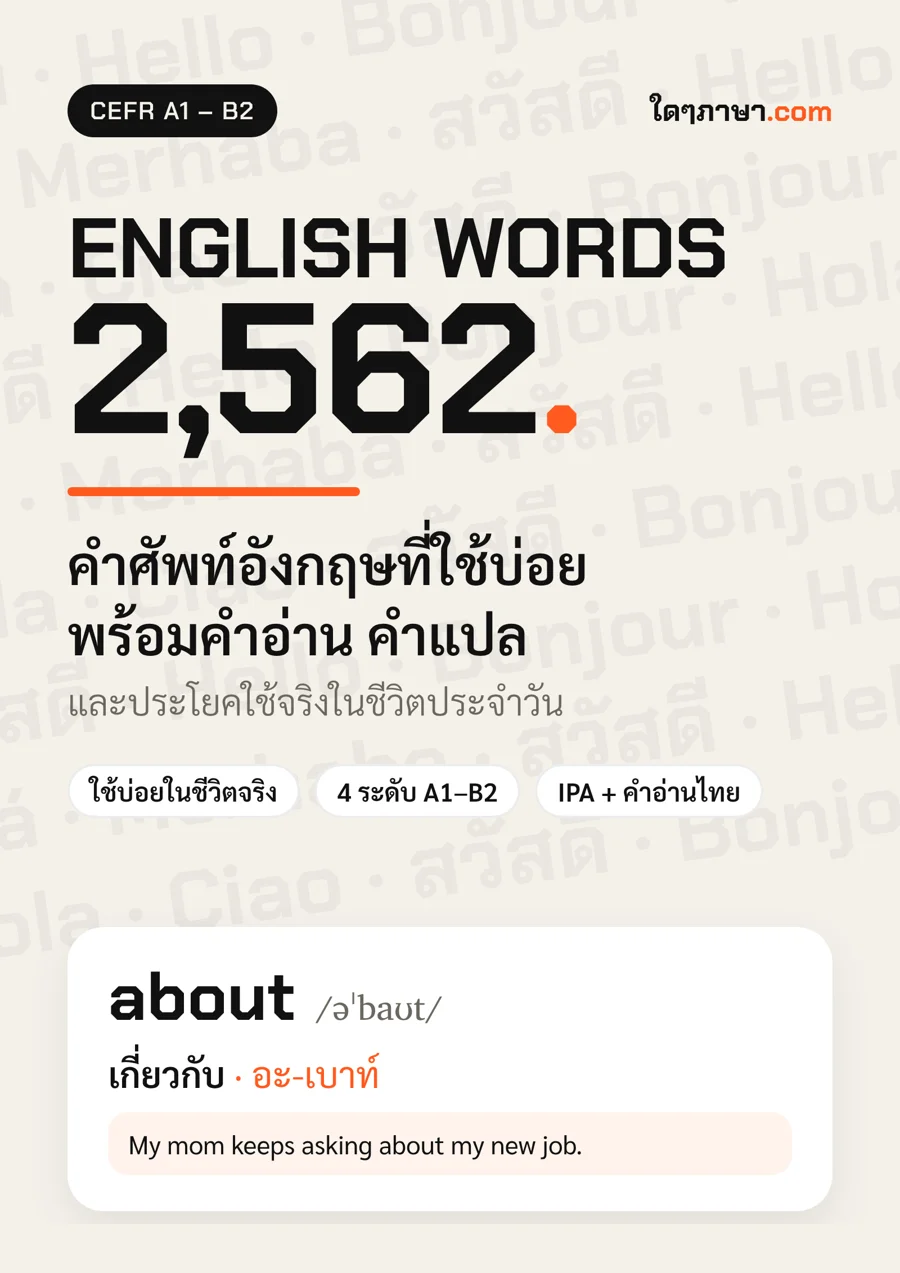
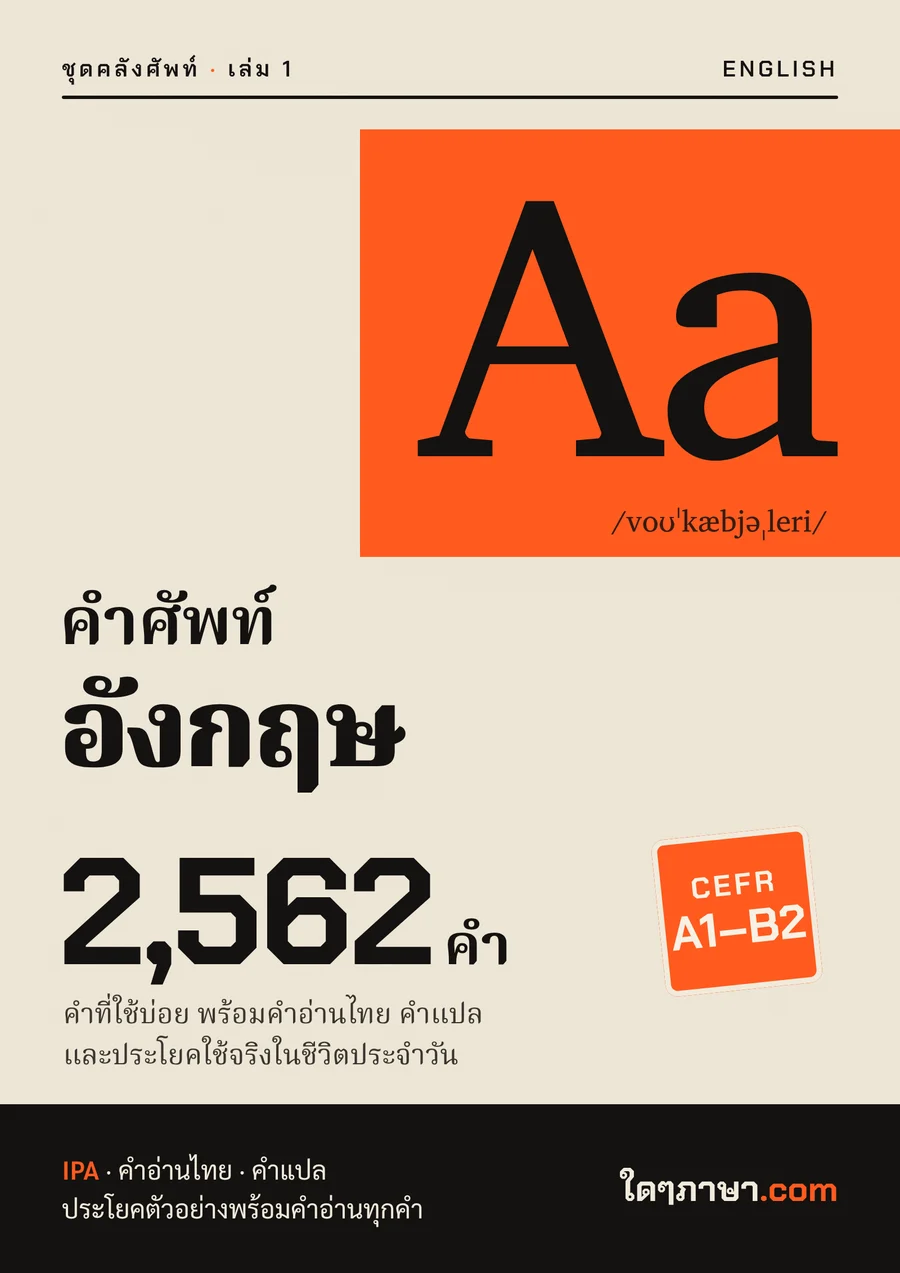
New book-series covers for both ebooks (cover, og, book-spine look on the store and home card)
Claude-Session: https://claude.ai/code/session_01PKK3YNeSXHAnrqD1Qe5szB

diff --git a/where-to-learn-japanese.html b/where-to-learn-japanese.html
@@ -67,7 +67,7 @@
 
 </div>
 <div class="tool"><a href="/translate"><span><small>ลองใช้เครื่องมือในเรื่องนี้</small><strong>แปลภาษา</strong></span><span class="go">→</span></a></div>
-<a href="/ebook-japanese" onclick="window.dHit&&dHit('ev:ebook-japanese-article')" style="display:flex;gap:16px;align-items:center;background:#FFF3EC;border-radius:18px;padding:14px 18px;margin:28px 0;text-decoration:none;color:inherit"><img src="/ebook-jp-assets/cover.webp" width="72" height="102" alt="" loading="lazy" style="width:72px;height:auto;border-radius:8px;box-shadow:0 6px 16px rgba(17,17,17,.12);flex:none"><span><b>ทวนศัพท์ควบคู่กับคอร์สเรียน</b><br>ebook 3,000 คำศัพท์ญี่ปุ่น JLPT N5–N1 พร้อมคานะ คำอ่านไทย และประโยคตัวอย่างแปลไทย · ฿149 <span style="color:#FF5A1F;font-weight:600">ดูตัวอย่าง →</span></span></a>
+<a href="/ebook-japanese" onclick="window.dHit&&dHit('ev:ebook-japanese-article')" style="display:flex;gap:16px;align-items:center;background:#FFF3EC;border-radius:18px;padding:14px 18px;margin:28px 0;text-decoration:none;color:inherit"><img src="/ebook-jp-assets/cover.webp?v=2" width="72" height="102" alt="" loading="lazy" style="width:72px;height:auto;border-radius:8px;box-shadow:0 6px 16px rgba(17,17,17,.12);flex:none"><span><b>ทวนศัพท์ควบคู่กับคอร์สเรียน</b><br>ebook 3,000 คำศัพท์ญี่ปุ่น JLPT N5–N1 พร้อมคานะ คำอ่านไทย และประโยคตัวอย่างแปลไทย · ฿149 <span style="color:#FF5A1F;font-weight:600">ดูตัวอย่าง →</span></span></a>
 <div class="refs"><h2>อ้างอิง</h2><ol><li><a href="https://tpaeduways.com/courses/" rel="noopener">TPA Eduways: รายการคอร์ส</a></li><li><a href="https://www.tpa.or.th/slc/course.php?lang=jp" rel="noopener">ส.ส.ท.: คอร์สภาษาญี่ปุ่น</a></li><li><a href="https://www.tpa.or.th/slc/contact.php" rel="noopener">ส.ส.ท.: ติดต่อโรงเรียนภาษาและวัฒนธรรม</a></li><li><a href="https://ba.jpf.go.jp/wp-content/uploads/2020/08/2020-2_JFBKK_JapaneseOnlineCourse_TH.pdf" rel="noopener">The Japan Foundation, Bangkok: ระเบียบการรับสมัคร (2563)</a></li><li><a href="https://minato-jf.jp/" rel="noopener">JF Japanese e-Learning Minato</a></li><li><a href="https://www.inlinguabangkok.com/en/courses/foreign-languages/" rel="noopener">inlingua Bangkok: Foreign languages</a></li><li><a href="https://arts.tu.ac.th/training" rel="noopener">คณะศิลปศาสตร์ มหาวิทยาลัยธรรมศาสตร์: ศูนย์อบรมภาษาต่างประเทศ</a></li><li><a href="https://www.school.ojsat.or.th/intensive-starter-japanese/" rel="noopener">OJSAT: คอร์สเริ่มต้นเร่งรัด 150 ชั่วโมง</a></li></ol></div>
 </article>
 <section class="more"><h2>อ่านเรื่องอื่น</h2><ul class="cards"><li><a href="/where-to-learn-korean"><div class="pic"><svg class="art" viewBox="0 0 1600 1000" preserveAspectRatio="xMidYMid slice" role="img" aria-label="ตัวอักษรเกาหลี 한글" xmlns="http://www.w3.org/2000/svg"><defs><filter id="gr0" x="0" y="0" width="100%" height="100%"><feTurbulence type="fractalNoise" baseFrequency=".9" numOctaves="2" stitchTiles="stitch"/><feColorMatrix values="0 0 0 0 0  0 0 0 0 0  0 0 0 0 0  0 0 0 0.22 0"/></filter></defs><rect width="1600" height="1000" fill="#E2E6F0"/><g stroke="#000" stroke-opacity="0.08" stroke-width="10" fill="none"><path d="M-20 720 C300 640 520 760 820 660 S1300 520 1640 600"/><path d="M260 -20 C300 300 200 560 330 1020"/><path d="M1080 -20 C1020 260 1180 520 1100 1020"/><path d="M-20 300 L1640 380"/></g><text x="800" y="600" text-anchor="middle" font-family="'Noto Serif SC','Noto Serif JP','Noto Serif KR','Songti SC','Hiragino Mincho ProN','Apple SD Gothic Neo',serif" font-size="380" font-weight="700" fill="#1A1A18">한글</text><g fill="#FF5A1F"><circle cx="300" cy="780" r="34"/><rect x="380" y="760" width="200" height="40" rx="20"/><rect x="620" y="700" width="40" height="160" rx="20"/></g><text x="1300" y="800" text-anchor="end" font-family="'IBM Plex Sans Thai Looped',sans-serif" font-size="54" fill="#1A1A18" opacity=".55">안녕하세요</text><g transform="translate(1400,420) scale(0.8)"><path d="M0 0 C-46 -62 -64 -92 -64 -124 A64 64 0 1 1 64 -124 C64 -92 46 -62 0 0 Z" fill="#FF5A1F"/><circle cx="0" cy="-124" r="24" fill="#FFFDF8"/></g><rect width="1600" height="1000" filter="url(#gr0)" opacity=".9"/></svg></div><span class="cat">ที่เรียนภาษา</span><h3>เรียนเกาหลีเทอมละพันบาท และอีกสี่ทางเลือก</h3><p>เจ็ดที่เรียน ตั้งแต่เซจงเทอมละพันบาทถึงโรงเรียนภาษาในห้าง</p></a></li><li><a href="/where-to-learn-french"><div class="pic"><svg class="art" viewBox="0 0 1600 1000" preserveAspectRatio="xMidYMid slice" role="img" aria-label="คำว่า Bonjour กับตราประทับ DELF A1" xmlns="http://www.w3.org/2000/svg"><defs><filter id="gr1" x="0" y="0" width="100%" height="100%"><feTurbulence type="fractalNoise" baseFrequency=".9" numOctaves="2" stitchTiles="stitch"/><feColorMatrix values="0 0 0 0 0  0 0 0 0 0  0 0 0 0 0  0 0 0 0.22 0"/></filter></defs><rect width="1600" height="1000" fill="#E9E3EF"/><g stroke="#000" stroke-opacity="0.08" stroke-width="10" fill="none"><path d="M-20 720 C300 640 520 760 820 660 S1300 520 1640 600"/><path d="M260 -20 C300 300 200 560 330 1020"/><path d="M1080 -20 C1020 260 1180 520 1100 1020"/><path d="M-20 300 L1640 380"/></g><g transform="translate(1180,300) rotate(-12)"><circle r="170" fill="none" stroke="#FF5A1F" stroke-width="10"/><circle r="140" fill="none" stroke="#FF5A1F" stroke-width="3"/><text y="-20" text-anchor="middle" font-family="'IBM Plex Sans Thai Looped',sans-serif" font-size="44" fill="#FF5A1F" font-weight="600">DELF</text><text y="44" text-anchor="middle" font-family="'IBM Plex Sans Thai Looped',sans-serif" font-size="56" fill="#FF5A1F" font-weight="700">A1</text></g><text x="160" y="640" font-family="Georgia,'Noto Serif Thai',serif" font-style="italic" font-size="250" fill="#1A1A18">Bonjour</text><path d="M170 690 C500 650 800 720 1050 680" stroke="#FF5A1F" stroke-width="10" fill="none" stroke-linecap="round"/><g transform="translate(330,920) scale(0.6)"><path d="M0 0 C-46 -62 -64 -92 -64 -124 A64 64 0 1 1 64 -124 C64 -92 46 -62 0 0 Z" fill="#FF5A1F"/><circle cx="0" cy="-124" r="24" fill="#FFFDF8"/></g><rect width="1600" height="1000" filter="url(#gr1)" opacity=".9"/></svg></div><span class="cat">ที่เรียนภาษา</span><h3>Bonjour ที่ถนนวิทยุ และอีกหกที่</h3><p>เจ็ดที่เรียน อลิยองซ์สามเมือง โรงเรียนภาษา และมหาวิทยาลัย</p></a></li><li><a href="/where-to-learn-german"><div class="pic"><svg class="art" viewBox="0 0 1600 1000" preserveAspectRatio="xMidYMid slice" role="img" aria-label="คำว่า Guten Tag กับระดับภาษา" xmlns="http://www.w3.org/2000/svg"><defs><filter id="gr2" x="0" y="0" width="100%" height="100%"><feTurbulence type="fractalNoise" baseFrequency=".9" numOctaves="2" stitchTiles="stitch"/><feColorMatrix values="0 0 0 0 0  0 0 0 0 0  0 0 0 0 0  0 0 0 0.22 0"/></filter></defs><rect width="1600" height="1000" fill="#E6E8DE"/><g stroke="#000" stroke-opacity="0.08" stroke-width="10" fill="none"><path d="M-20 720 C300 640 520 760 820 660 S1300 520 1640 600"/><path d="M260 -20 C300 300 200 560 330 1020"/><path d="M1080 -20 C1020 260 1180 520 1100 1020"/><path d="M-20 300 L1640 380"/></g><text x="800" y="560" text-anchor="middle" font-family="Georgia,'Noto Serif Thai',serif" font-size="260" font-weight="700" fill="#1A1A18">Guten Tag</text><g transform="translate(800,720)"><rect x="-430" y="-40" width="860" height="80" rx="40" fill="#FFFDF8"/><text y="18" text-anchor="middle" font-family="'IBM Plex Sans Thai Looped',sans-serif" font-size="46" fill="#1A1A18">A1 → A2 → B1 → B2</text></g><g fill="#FF5A1F"><circle cx="1420" cy="200" r="34"/><circle cx="1520" cy="200" r="34"/></g><g transform="translate(240,920) scale(0.7)"><path d="M0 0 C-46 -62 -64 -92 -64 -124 A64 64 0 1 1 64 -124 C64 -92 46 -62 0 0 Z" fill="#FF5A1F"/><circle cx="0" cy="-124" r="24" fill="#FFFDF8"/></g><rect width="1600" height="1000" filter="url(#gr2)" opacity=".9"/></svg></div><span class="cat">ที่เรียนภาษา</span><h3>เจ็ดที่เรียนภาษาเยอรมัน เริ่มที่ซอยเกอเธ่</h3><p>เจ็ดที่เรียน ตั้งแต่คอร์สวิดีโอหลักพันถึงเกอเธ่ พร้อมตารางเทียบราคา</p></a></li></ul></section>

diff --git a/ebook.html b/ebook.html
@@ -12,7 +12,7 @@
 <meta property="og:description" content="คำศัพท์อังกฤษใช้บ่อย 2,562 คำ พร้อม IPA คำอ่านไทย คำแปล และประโยคใช้จริง · PDF + EPUB · ฿149">
 <meta property="og:type" content="product">
 <meta property="og:url" content="https://daidaiphasa.com/ebook">
-<meta property="og:image" content="https://daidaiphasa.com/ebook-assets/og.jpg">
+<meta property="og:image" content="https://daidaiphasa.com/ebook-assets/og.jpg?v=2">
 <meta property="og:locale" content="th_TH">
 <meta name="twitter:card" content="summary_large_image">
 <meta name="theme-color" content="#FBFAF7">
@@ -24,7 +24,7 @@
 <link rel="stylesheet" href="https://fonts.googleapis.com/css2?family=Chakra+Petch:wght@400;500;600;700&family=Sarabun:ital,wght@0,300;0,400;0,500;0,600;0,700;1,300;1,400&display=swap">
 <link rel="stylesheet" href="/article.css?v=7">
 <script>try{var t=localStorage.getItem('lh-theme');if(t==='dark')document.documentElement.setAttribute('data-theme','dark')}catch(e){}</script>
-<script type="application/ld+json">{"@context":"https://schema.org","@type":"Product","name":"2,562 คำศัพท์อังกฤษที่ใช้บ่อย พร้อมคำอ่าน คำแปล และประโยคใช้จริง","image":"https://daidaiphasa.com/ebook-assets/cover.webp","description":"ebook คำศัพท์ภาษาอังกฤษที่ใช้บ่อย 2,562 คำ ระดับ A1–B2 พร้อม IPA คำอ่านไทย คำแปล และประโยคตัวอย่าง ไฟล์ PDF และ EPUB","brand":{"@type":"Brand","name":"ใดๆภาษา.com"},"offers":{"@type":"Offer","price":"149","priceCurrency":"THB","availability":"https://schema.org/InStock","url":"https://daidaiphasa.com/ebook"}}</script>
+<script type="application/ld+json">{"@context":"https://schema.org","@type":"Product","name":"2,562 คำศัพท์อังกฤษที่ใช้บ่อย พร้อมคำอ่าน คำแปล และประโยคใช้จริง","image":"https://daidaiphasa.com/ebook-assets/cover.webp?v=2","description":"ebook คำศัพท์ภาษาอังกฤษที่ใช้บ่อย 2,562 คำ ระดับ A1–B2 พร้อม IPA คำอ่านไทย คำแปล และประโยคตัวอย่าง ไฟล์ PDF และ EPUB","brand":{"@type":"Brand","name":"ใดๆภาษา.com"},"offers":{"@type":"Offer","price":"149","priceCurrency":"THB","availability":"https://schema.org/InStock","url":"https://daidaiphasa.com/ebook"}}</script>
 <style>
 :root{--signal:#FF5A1F;--wash:#F4F1EA;--tint:#FFF3EC;--r-lg:28px;--r-md:18px;--display:"Chakra Petch","Sarabun",sans-serif;--body:"Sarabun",sans-serif}
 :root[data-theme="dark"]{--wash:#1D1C1A;--tint:#2a1c15}
@@ -34,8 +34,10 @@ body{font-family:var(--body);font-weight:300;font-size:17px;line-height:1.7}
 .stroke{height:5px;width:90px;border-radius:99px;background:var(--signal);border:0;margin:18px 0}
 /* hero */
 .hero{display:grid;grid-template-columns:minmax(0,420px) 1fr;gap:clamp(28px,5vw,72px);align-items:center;padding:clamp(28px,5vw,64px) 0}
-.bookcover{border-radius:var(--r-lg);overflow:hidden;box-shadow:0 30px 70px rgba(17,17,17,.14),0 0 0 1px rgba(17,17,17,.06);transform:rotate(-1.5deg);background:var(--wash)}
+.bookcover{position:relative;border-radius:5px 16px 16px 5px;overflow:hidden;box-shadow:0 30px 70px rgba(17,17,17,.14),0 0 0 1px rgba(17,17,17,.06);transform:rotate(-1.5deg);background:var(--wash)}
 .bookcover img{display:block;width:100%;height:auto}
+.bookcover::after{content:"";position:absolute;inset:0;background:linear-gradient(90deg,rgba(0,0,0,.22) 0,rgba(255,255,255,.22) 1.4%,rgba(0,0,0,.10) 3%,rgba(0,0,0,0) 6%);pointer-events:none}
+.other img{border-radius:3px 8px 8px 3px!important}
 .kick{display:inline-block;font-family:var(--display);font-weight:600;font-size:14px;letter-spacing:.06em;background:var(--tint);color:var(--ink);border-radius:999px;padding:5px 14px}
 .hero h1{font-size:clamp(34px,5vw,60px);margin-top:16px}
 .hero h1 span{color:var(--signal)}
@@ -128,7 +130,7 @@ body{font-family:var(--body);font-weight:300;font-size:17px;line-height:1.7}
 
 <main class="eb">
   <section class="hero">
-    <div class="bookcover"><img src="/ebook-assets/cover.webp" width="900" height="1273" alt="ปกหนังสือ 2,562 คำศัพท์อังกฤษที่ใช้บ่อย"></div>
+    <div class="bookcover"><img src="/ebook-assets/cover.webp?v=2" width="900" height="1273" alt="ปกหนังสือ 2,562 คำศัพท์อังกฤษที่ใช้บ่อย"></div>
     <div>
       <span class="kick">ebook · PDF + EPUB</span>
       <h1>2,562 คำศัพท์<br>อังกฤษที่ใช้บ่อย<span>.</span></h1>
@@ -231,7 +233,7 @@ body{font-family:var(--body);font-weight:300;font-size:17px;line-height:1.7}
 
   <section class="sec2">
     <h2>หนังสือเล่มอื่นของเรา</h2>
-    <a class="other" href="/ebook-japanese"><img src="/ebook-jp-assets/cover.webp" width="900" height="1273" alt="" loading="lazy"><span><b>3,000 คำศัพท์ญี่ปุ่น JLPT N5–N1</b><br><span class="hint">พร้อมคานะ คำอ่านไทย ความหมาย และประโยคตัวอย่างแปลไทย · ฿149</span><br><span class="go">ดูรายละเอียด →</span></span></a>
+    <a class="other" href="/ebook-japanese"><img src="/ebook-jp-assets/cover.webp?v=2" width="900" height="1273" alt="" loading="lazy"><span><b>3,000 คำศัพท์ญี่ปุ่น JLPT N5–N1</b><br><span class="hint">พร้อมคานะ คำอ่านไทย ความหมาย และประโยคตัวอย่างแปลไทย · ฿149</span><br><span class="go">ดูรายละเอียด →</span></span></a>
   </section>
   <section class="sec2 faq">
     <h2>คำถามที่พบบ่อย</h2>

diff --git a/ebook-japanese.html b/ebook-japanese.html
@@ -12,7 +12,7 @@
 <meta property="og:description" content="คำศัพท์ญี่ปุ่น 3,000 คำ N5–N1 พร้อมคานะ คำอ่านไทย คำแปล และประโยคตัวอย่าง · PDF + EPUB · ฿149">
 <meta property="og:type" content="product">
 <meta property="og:url" content="https://daidaiphasa.com/ebook-japanese">
-<meta property="og:image" content="https://daidaiphasa.com/ebook-jp-assets/og.jpg">
+<meta property="og:image" content="https://daidaiphasa.com/ebook-jp-assets/og.jpg?v=2">
 <meta property="og:locale" content="th_TH">
 <meta name="twitter:card" content="summary_large_image">
 <meta name="theme-color" content="#FBFAF7">
@@ -24,7 +24,7 @@
 <link rel="stylesheet" href="https://fonts.googleapis.com/css2?family=Chakra+Petch:wght@400;500;600;700&family=Sarabun:ital,wght@0,300;0,400;0,500;0,600;0,700;1,300;1,400&display=swap">
 <link rel="stylesheet" href="/article.css?v=7">
 <script>try{var t=localStorage.getItem('lh-theme');if(t==='dark')document.documentElement.setAttribute('data-theme','dark')}catch(e){}</script>
-<script type="application/ld+json">{"@context":"https://schema.org","@type":"Product","name":"3,000 คำศัพท์ญี่ปุ่น JLPT N5–N1 พร้อมคำอ่านไทย คำแปล และประโยคตัวอย่าง","image":"https://daidaiphasa.com/ebook-jp-assets/cover.webp","description":"ebook คำศัพท์ภาษาญี่ปุ่น 3,000 คำ ระดับ JLPT N5–N1 พร้อมคานะ คำอ่านไทย ความหมาย และประโยคตัวอย่างแปลไทย ไฟล์ PDF และ EPUB","brand":{"@type":"Brand","name":"ใดๆภาษา.com"},"offers":{"@type":"Offer","price":"149","priceCurrency":"THB","availability":"https://schema.org/InStock","url":"https://daidaiphasa.com/ebook-japanese"}}</script>
+<script type="application/ld+json">{"@context":"https://schema.org","@type":"Product","name":"3,000 คำศัพท์ญี่ปุ่น JLPT N5–N1 พร้อมคำอ่านไทย คำแปล และประโยคตัวอย่าง","image":"https://daidaiphasa.com/ebook-jp-assets/cover.webp?v=2","description":"ebook คำศัพท์ภาษาญี่ปุ่น 3,000 คำ ระดับ JLPT N5–N1 พร้อมคานะ คำอ่านไทย ความหมาย และประโยคตัวอย่างแปลไทย ไฟล์ PDF และ EPUB","brand":{"@type":"Brand","name":"ใดๆภาษา.com"},"offers":{"@type":"Offer","price":"149","priceCurrency":"THB","availability":"https://schema.org/InStock","url":"https://daidaiphasa.com/ebook-japanese"}}</script>
 <style>
 :root{--signal:#FF5A1F;--wash:#F4F1EA;--tint:#FFF3EC;--r-lg:28px;--r-md:18px;--display:"Chakra Petch","Sarabun",sans-serif;--body:"Sarabun",sans-serif}
 :root[data-theme="dark"]{--wash:#1D1C1A;--tint:#2a1c15}
@@ -34,8 +34,10 @@ body{font-family:var(--body);font-weight:300;font-size:17px;line-height:1.7}
 .stroke{height:5px;width:90px;border-radius:99px;background:var(--signal);border:0;margin:18px 0}
 /* hero */
 .hero{display:grid;grid-template-columns:minmax(0,420px) 1fr;gap:clamp(28px,5vw,72px);align-items:center;padding:clamp(28px,5vw,64px) 0}
-.bookcover{border-radius:var(--r-lg);overflow:hidden;box-shadow:0 30px 70px rgba(17,17,17,.14),0 0 0 1px rgba(17,17,17,.06);transform:rotate(-1.5deg);background:var(--wash)}
+.bookcover{position:relative;border-radius:5px 16px 16px 5px;overflow:hidden;box-shadow:0 30px 70px rgba(17,17,17,.14),0 0 0 1px rgba(17,17,17,.06);transform:rotate(-1.5deg);background:var(--wash)}
 .bookcover img{display:block;width:100%;height:auto}
+.bookcover::after{content:"";position:absolute;inset:0;background:linear-gradient(90deg,rgba(0,0,0,.22) 0,rgba(255,255,255,.22) 1.4%,rgba(0,0,0,.10) 3%,rgba(0,0,0,0) 6%);pointer-events:none}
+.other img{border-radius:3px 8px 8px 3px!important}
 .kick{display:inline-block;font-family:var(--display);font-weight:600;font-size:14px;letter-spacing:.06em;background:var(--tint);color:var(--ink);border-radius:999px;padding:5px 14px}
 .hero h1{font-size:clamp(34px,5vw,60px);margin-top:16px}
 .hero h1 span{color:var(--signal)}
@@ -128,7 +130,7 @@ body{font-family:var(--body);font-weight:300;font-size:17px;line-height:1.7}
 
 <main class="eb">
   <section class="hero">
-    <div class="bookcover"><img src="/ebook-jp-assets/cover.webp" width="900" height="1273" alt="ปกหนังสือ 3,000 คำศัพท์ญี่ปุ่น JLPT N5–N1"></div>
+    <div class="bookcover"><img src="/ebook-jp-assets/cover.webp?v=2" width="900" height="1273" alt="ปกหนังสือ 3,000 คำศัพท์ญี่ปุ่น JLPT N5–N1"></div>
     <div>
       <span class="kick">ebook · PDF + EPUB</span>
       <h1>3,000 คำศัพท์<br>ญี่ปุ่น JLPT<span>.</span></h1>
@@ -232,7 +234,7 @@ body{font-family:var(--body);font-weight:300;font-size:17px;line-height:1.7}
 
   <section class="sec2">
     <h2>หนังสือเล่มอื่นของเรา</h2>
-    <a class="other" href="/ebook"><img src="/ebook-assets/cover.webp" width="900" height="1273" alt="" loading="lazy"><span><b>2,562 คำศัพท์อังกฤษที่ใช้บ่อย</b><br><span class="hint">ระดับ A1–B2 พร้อม IPA คำอ่านไทย และประโยคใช้จริง · ฿149</span><br><span class="go">ดูรายละเอียด →</span></span></a>
+    <a class="other" href="/ebook"><img src="/ebook-assets/cover.webp?v=2" width="900" height="1273" alt="" loading="lazy"><span><b>2,562 คำศัพท์อังกฤษที่ใช้บ่อย</b><br><span class="hint">ระดับ A1–B2 พร้อม IPA คำอ่านไทย และประโยคใช้จริง · ฿149</span><br><span class="go">ดูรายละเอียด →</span></span></a>
   </section>
   <section class="sec2 faq">
     <h2>คำถามที่พบบ่อย</h2>

diff --git a/index.html b/index.html
@@ -36,7 +36,7 @@
 <script async src="https://pagead2.googlesyndication.com/pagead/js/adsbygoogle.js?client=ca-pub-2391353056454673" crossorigin="anonymous"></script>
 <link rel="preconnect" href="https://fonts.googleapis.com">
 <link rel="stylesheet" href="https://fonts.googleapis.com/css2?family=Chakra+Petch:wght@400;500;600;700&family=Sarabun:ital,wght@0,300;0,400;0,500;0,600;0,700;1,300;1,400&display=swap">
-<link rel="stylesheet" href="/rx.css?v=24">
+<link rel="stylesheet" href="/rx.css?v=25">
 <style>
 /* Layout: printed-dictionary page with game type — ruled black frames, one orange signal, wide gutters */
 :root{
@@ -937,7 +937,7 @@ footer a{color:#F4F4F0}
         <div class="saved-head"><h3>คำที่บันทึกไว้</h3><span class="mono" id="savedCount"></span></div>
         <p class="saved-empty" id="savedEmpty">ยังไม่มีคำที่บันทึกไว้ กด "บันทึกคำนี้" ที่คำประจำวัน แล้วกลับมาทบทวนด้วยการ์ดคำศัพท์ตรงนี้</p>
         <a class="ebk" href="/ebook" onclick="window.dHit&&dHit('ev:ebook-home')" aria-label="ebook 2,562 คำศัพท์อังกฤษที่ใช้บ่อย ราคา 149 บาท">
-          <span class="ebk-cover"><img src="/ebook-assets/cover.webp" width="900" height="1273" alt="" loading="lazy"></span>
+          <span class="ebk-cover"><img src="/ebook-assets/cover.webp?v=2" width="900" height="1273" alt="" loading="lazy"></span>
           <span class="ebk-body">
             <span class="ebk-kick">ebook ใหม่ <b>฿149</b></span>
             <span class="ebk-title">ท่องต่อให้ครบ 2,562 คำ<i>.</i></span>

diff --git a/rx.css b/rx.css
@@ -232,9 +232,10 @@ footer{margin-bottom:12px}
 /* ebook promo (in the learn section, beside saved words) */
 .ebk{display:flex;gap:20px;align-items:center;margin-top:22px;padding:18px 20px 18px 18px;border-radius:24px;background:var(--wash,#F4F1EA);color:var(--ink);text-decoration:none;transition:transform .2s ease,box-shadow .2s ease}
 .ebk:hover{transform:translateY(-3px);box-shadow:0 14px 34px rgba(17,17,17,.08)}
-.ebk-cover{flex:none;width:96px;border-radius:12px;overflow:hidden;box-shadow:0 10px 22px rgba(17,17,17,.16),0 0 0 1px rgba(17,17,17,.06);transform:rotate(-4deg);transition:transform .25s ease}
+.ebk-cover{position:relative;flex:none;width:96px;border-radius:3px 8px 8px 3px;overflow:hidden;box-shadow:0 10px 22px rgba(17,17,17,.16),0 0 0 1px rgba(17,17,17,.06);transform:rotate(-4deg);transition:transform .25s ease}
 .ebk:hover .ebk-cover{transform:rotate(-1deg) scale(1.04)}
 .ebk-cover img{display:block;width:100%;height:auto}
+.ebk-cover::after{content:"";position:absolute;inset:0;background:linear-gradient(90deg,rgba(0,0,0,.22) 0,rgba(255,255,255,.22) 1.4%,rgba(0,0,0,.10) 3%,rgba(0,0,0,0) 6%);pointer-events:none}
 .ebk-body{display:flex;flex-direction:column;gap:4px;min-width:0}
 .ebk-kick{font-size:13px;font-weight:600;color:var(--sub)}
 .ebk-kick b{margin-left:6px;background:var(--signal);color:#111;border-radius:999px;padding:1px 9px;font-family:var(--display)}
